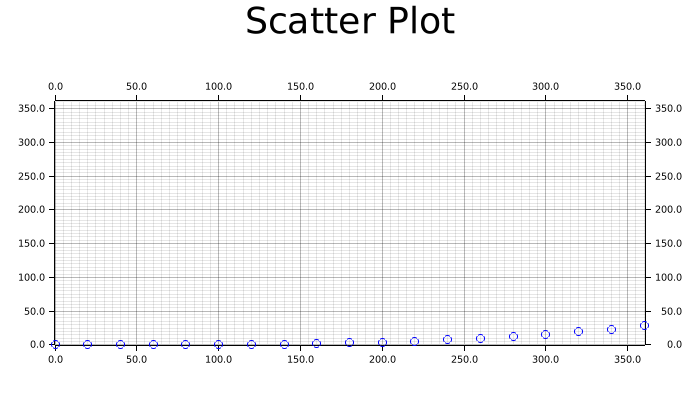
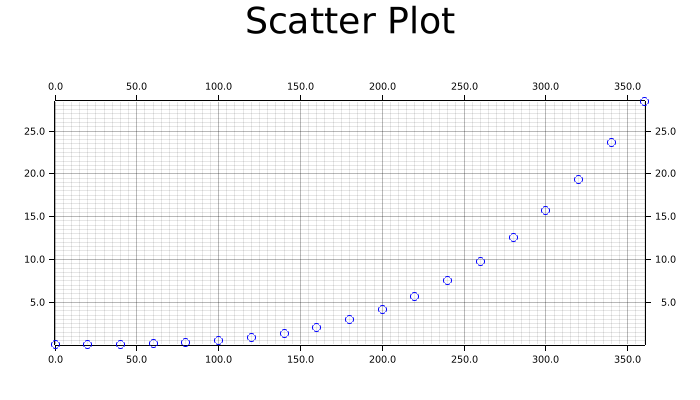
Adding the image functionality

Changed region(s): [[0.03, 0.24, 0.99, 0.87]]

diff --git a/src/main.rs b/src/main.rs
@@ -1,6 +1,7 @@
 // Build a actix microservice
 
-use actix_web::{get, App, HttpResponse, HttpServer, Responder};
+use actix_web::{get, App, HttpResponse, HttpServer, Responder, Result};
+use std::fs;
 
 //create a function that returns a hello world
 #[get("/")]
@@ -42,6 +43,14 @@ async fn sqrt_data() -> impl Responder {
         .body("Sqrt data")
 }
 
+#[get("/image")]
+async fn image() -> Result<HttpResponse> {
+    let image_data = fs::read("scatter.png")?;
+    Ok(HttpResponse::Ok()
+        .content_type("image/png")
+        .body(image_data))
+}
+
 #[actix_web::main]
 async fn main() -> std::io::Result<()> {
     //add a print message to the console that the service is running
@@ -51,6 +60,7 @@ async fn main() -> std::io::Result<()> {
             .service(hello)
             .service(log_data)
             .service(sqrt_data)
+            .service(image)
     })
     .bind("0.0.0.0:8080")?
     .run()

diff --git a/src/lib.rs b/src/lib.rs
@@ -56,24 +56,13 @@ pub fn plot(x: Vec<f64>, y: Vec<f64>) {
         }
     }
 
-    // find min of min_x and min_y
-    let mut min = min_x;
-    if min_y < min_x {
-        min = min_y;
-    }
-    // find max of max_x and max_y
-    let mut max = max_x;
-    if max_y > max_x {
-        max = max_y;
-    }
-
     let mut ctx = ChartBuilder::on(&root_area)
         .set_label_area_size(LabelAreaPosition::Left, 55.0)
         .set_label_area_size(LabelAreaPosition::Bottom, 55.0)
         .set_label_area_size(LabelAreaPosition::Right, 55.0)
         .set_label_area_size(LabelAreaPosition::Top, 55.0)
         .caption("Scatter Plot", ("sans-serif", 45.0))
-        .build_cartesian_2d(min..max, min..max)
+        .build_cartesian_2d(min_x..max_x, min_y..max_y)
         .unwrap();
 
     ctx.configure_mesh().draw().unwrap();

diff --git a/README.md b/README.md
@@ -1,6 +1,7 @@
 # Project 2 - Rust Microservice
-The goal for this project will be to show how data transformations can be used to find relationships between variables. The first iteration of this project has functions to read in the data, apply log and square root transforms, and plot the data. The next step is to add the actix framework for the microservice.
-
+The goal for this project will be to show how data transformations can be used to find relationships between variables. The first iteration of this project has functions to read in the data, apply log and square root transforms, and plot the data. The next step is to add the actix framework for the microservice. 
+   
+For the second iteration of the project, I added the actix mechanisms to interact with the microservice on the web page. The base page gives a welcome message, the log page computes the log transform and creates a plot, the sqrt page computes the square root transform and creates a plot, and the image page displays the plot.
 
 ## References
 
